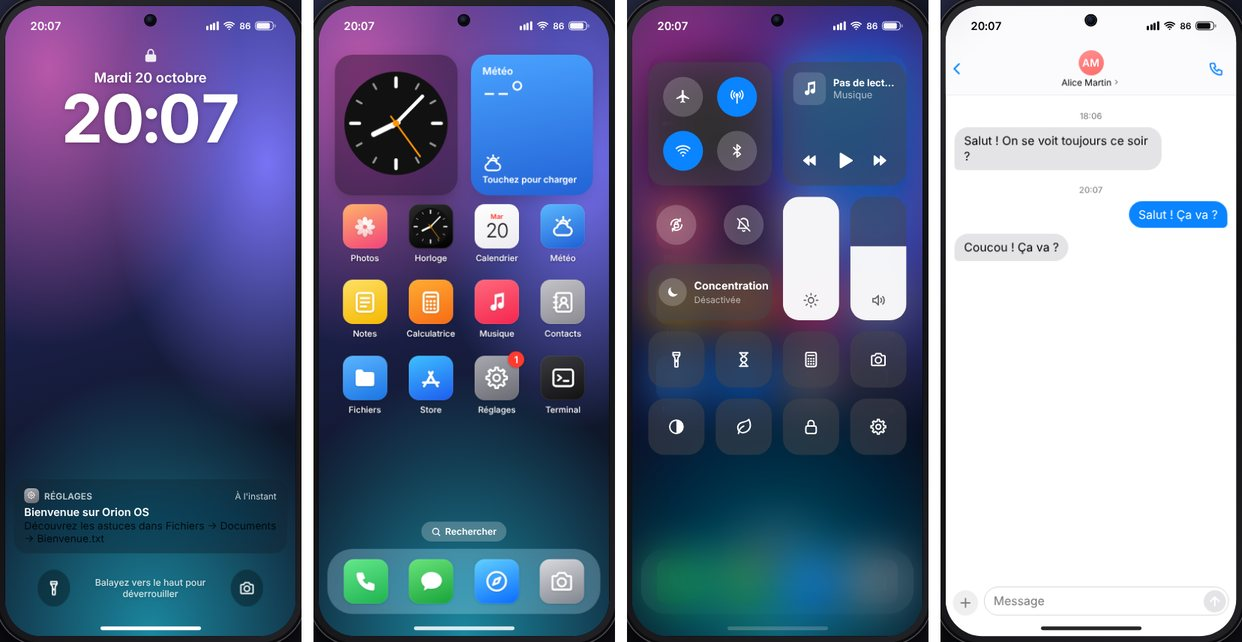
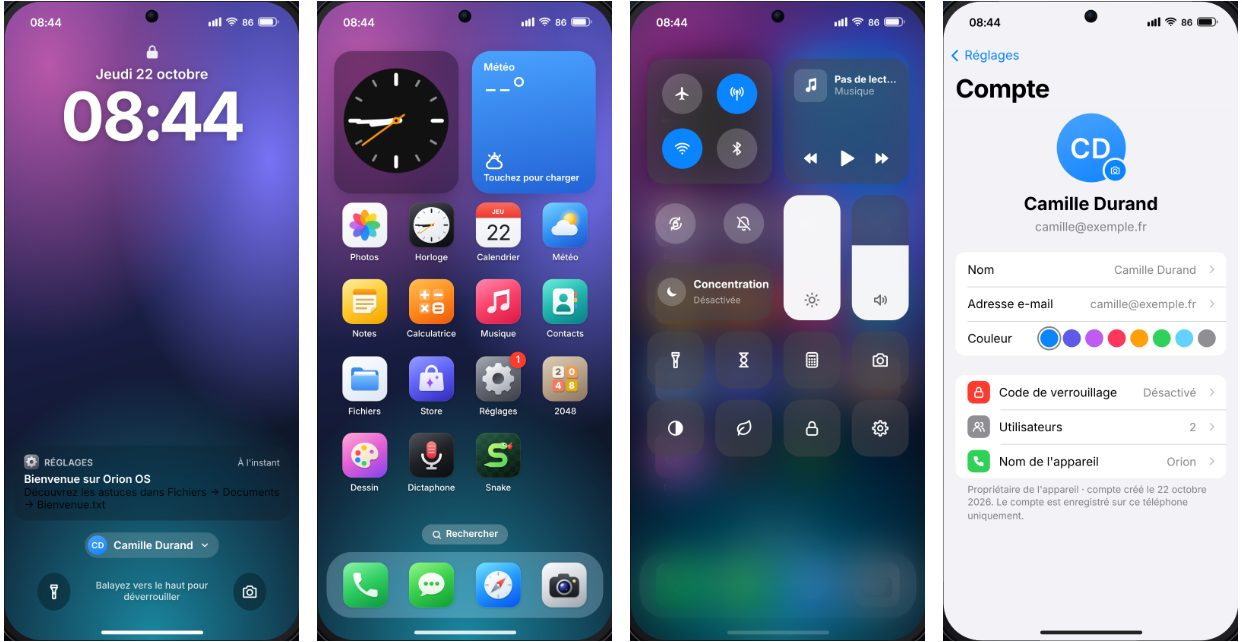
README : captures refaites (nouvelles icônes, comptes, sans contacts fictifs)
Claude-Session: https://claude.ai/code/session_01BARG1jBKC3UuqNzyMhE3jv

diff --git a/README.md b/README.md
@@ -4,7 +4,7 @@
 
 Comme Firefox OS ou KaiOS, il est construit sur les technologies du Web : un **noyau JavaScript** gère les processus, le système de fichiers, les paquets, les intents, les notifications, les alarmes, les permissions et une pile téléphonie ; une **interface système** fournit l'écran verrouillé, l'accueil, les gestes, le multitâche ; et **20 applications** sont livrées (dont 4 à installer depuis le Store).
 
-![Écran verrouillé, accueil, centre de contrôle et Messages](docs/screenshots/apercu.jpg)
+![Écran verrouillé, accueil, centre de contrôle et compte](docs/screenshots/apercu.jpg)
 
 ## Démarrage rapide
 
